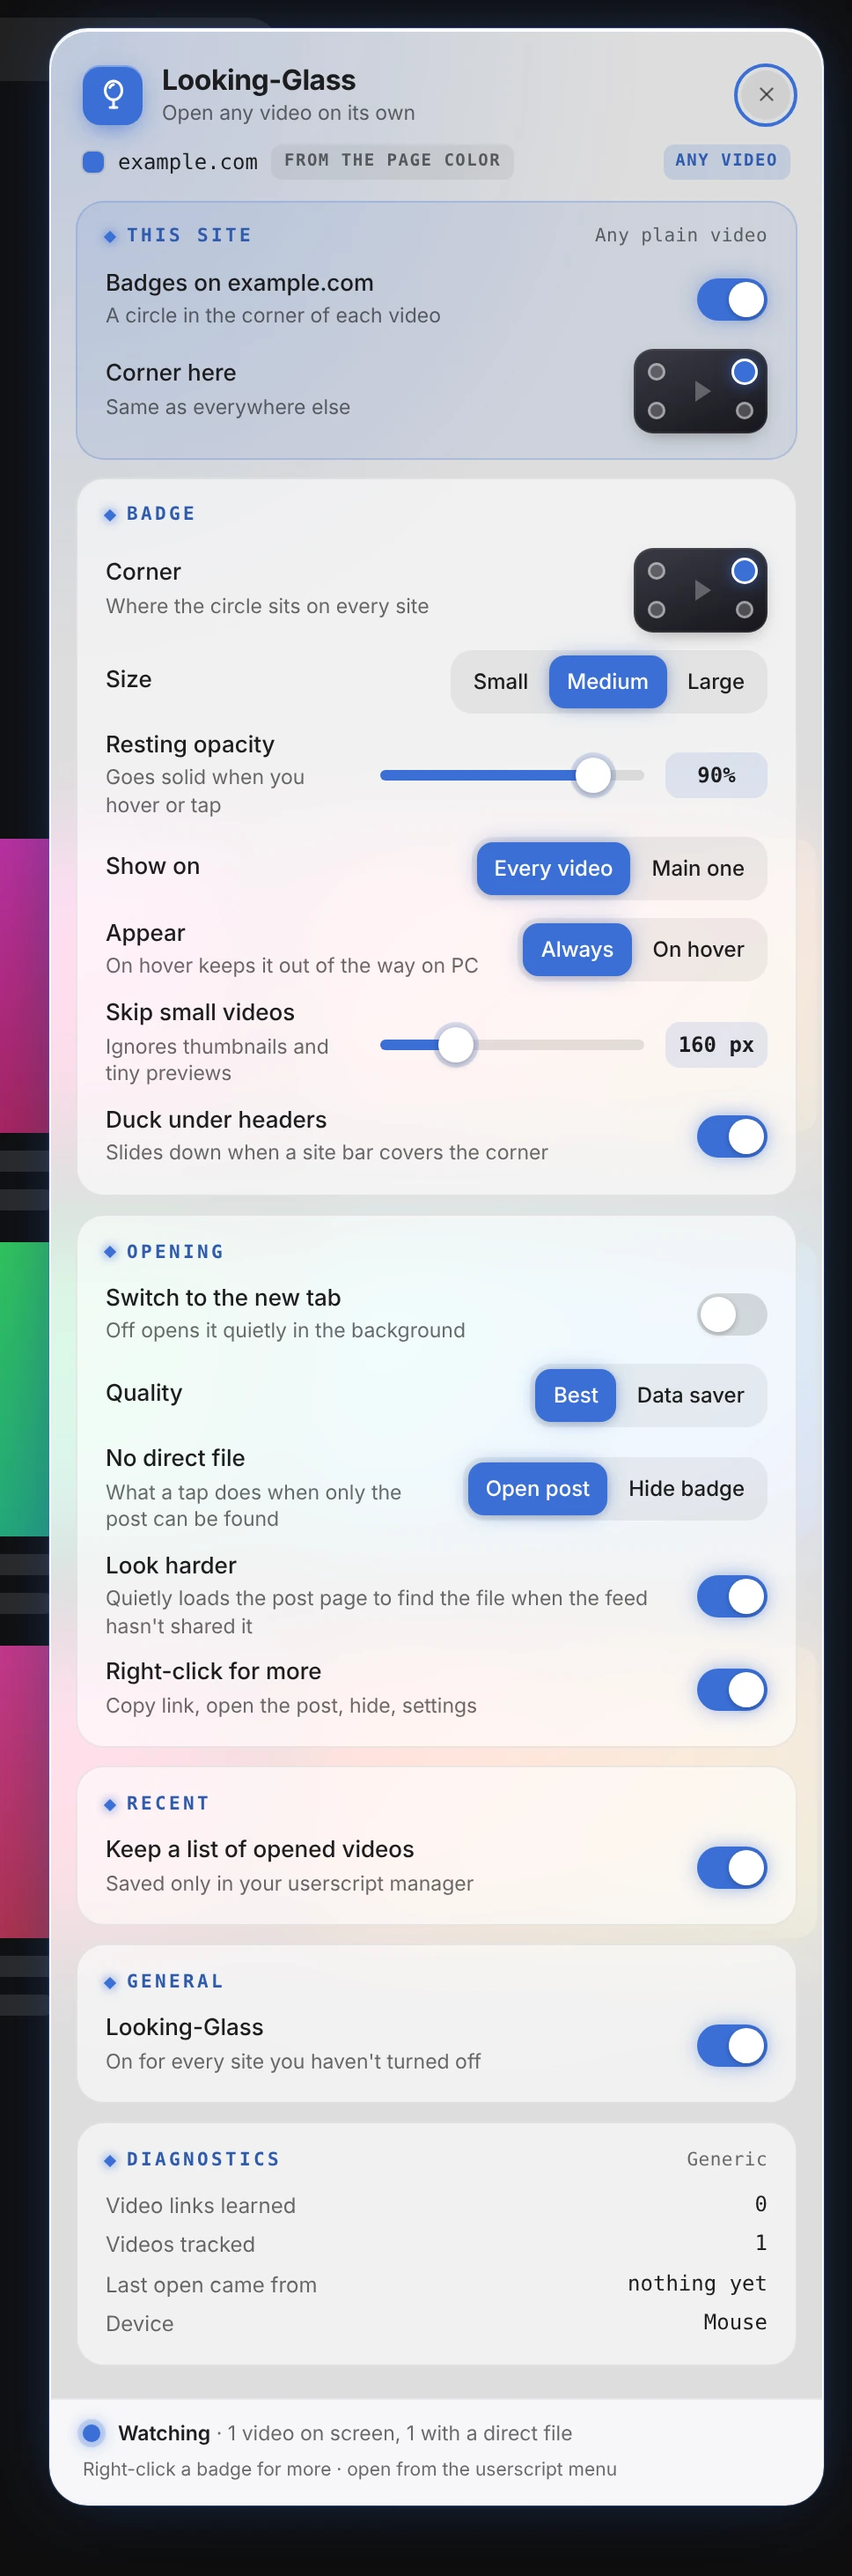
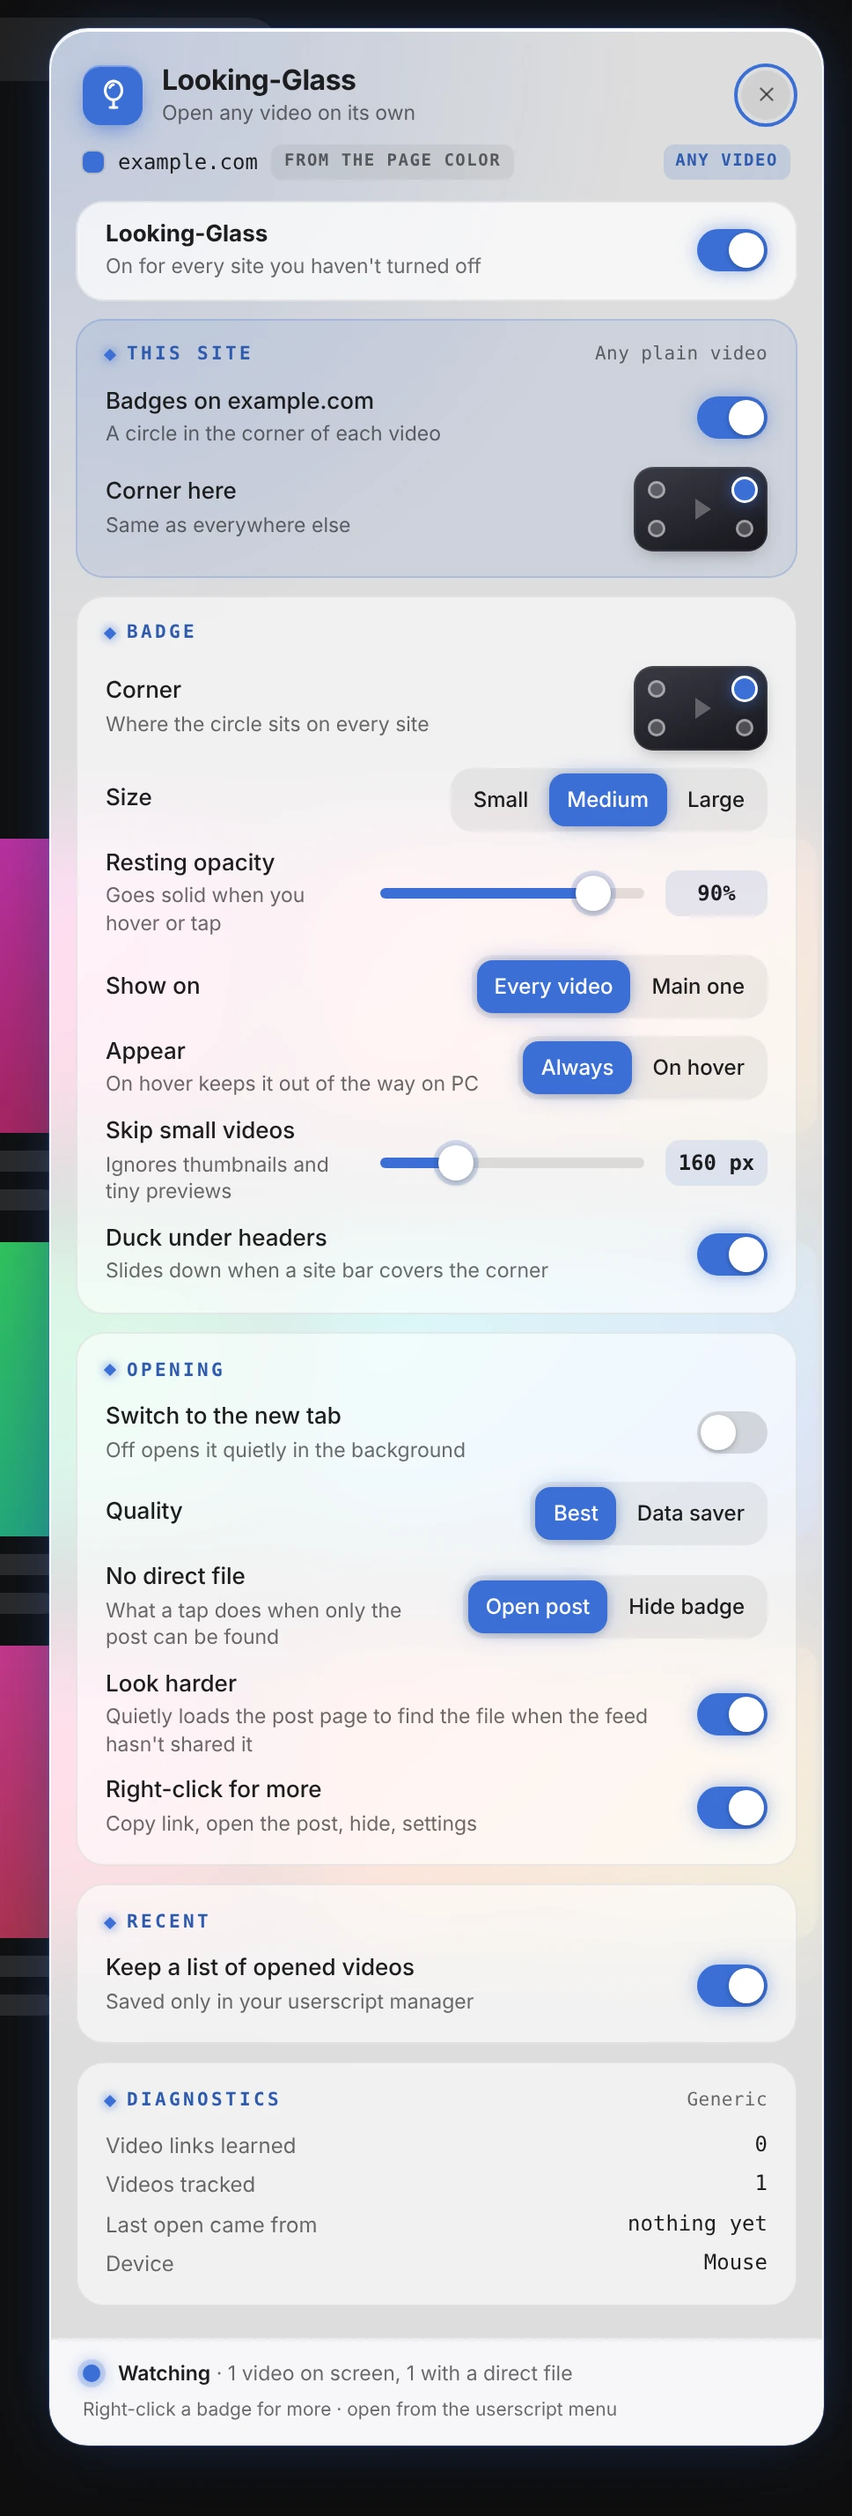
Looking-Glass 1.0.8: master switch moves to the top
The Looking-Glass on/off switch was alone in a General section at the
bottom of the panel. It is now the first card under the header, like the
master switches in Molten Tools, Molten for Reddit, Prism and Hourglass.
The General section is gone and the "This site" hint now points to the top.
Panel recaptured and pages rebuilt.

diff --git a/desktop/looking-glass/looking-glass.user.js b/desktop/looking-glass/looking-glass.user.js
@@ -1,7 +1,7 @@
 // ==UserScript==
 // @name         Looking-Glass
 // @namespace    jigglypug
-// @version      1.0.7
+// @version      1.0.8
 // @description  A small circle in the corner of every video, in the site's own color. Tap it to open the video file in its own tab. Facebook, Instagram, Reddit, X, TikTok, YouTube and any page with a plain video, on phone and PC.
 // @match        *://*/*
 // @grant        GM_getValue
@@ -1084,6 +1084,8 @@ button:disabled{cursor:not-allowed}
 .siteline{display:flex;align-items:center;gap:8px;padding:6px 18px 12px;font:12px var(--mono);color:var(--sub);min-width:0}
 .siteline b{color:var(--text);font-weight:500;overflow:hidden;text-overflow:ellipsis;white-space:nowrap}
 .sw8{width:12px;height:12px;border-radius:4px;flex:none;background:var(--bg-fill);box-shadow:0 0 0 1px rgba(0,0,0,.08)}
+.tile.master{padding:10px 16px;background:rgba(255,255,255,.75)}
+.tile.master .t{font-weight:650}
 .card{margin:0 14px 10px;padding:14px 16px;border-radius:16px;background:rgba(var(--a-rgb),.09);border:1px solid rgba(var(--a-rgb),.22)}
 .tile{margin:0 14px 10px;padding:15px 16px;border-radius:16px;background:rgba(255,255,255,.6);border:1px solid var(--line);min-width:0}
 .label{display:flex;align-items:center;gap:7px;font:600 10.5px/1 var(--mono);letter-spacing:.16em;text-transform:uppercase;color:var(--ink);margin-bottom:12px;min-height:12px}
@@ -1241,7 +1243,7 @@ button:disabled{cursor:not-allowed}
             const updSite = patch => { setSite(patch); kick(); if ('color' in patch) detectColor(); else this.render(); };
 
             const here = h('div', { class: 'card' }, this.label('This site', SITE ? SITE.name + ' support' : 'Any plain video'),
-                this.row('Badges on ' + HOST, !c.on ? 'Paused everywhere. Turn it back on in General.' : st.off ? 'Off here. Every other site still gets badges.' : 'A circle in the corner of each video', toggle(!st.off, () => updSite({ off: !st.off }), 'Badges on this site', !c.on)),
+                this.row('Badges on ' + HOST, !c.on ? 'Paused everywhere. Turn it back on at the top.' : st.off ? 'Off here. Every other site still gets badges.' : 'A circle in the corner of each video', toggle(!st.off, () => updSite({ off: !st.off }), 'Badges on this site', !c.on)),
                 this.row('Corner here', st.corner ? 'Only on ' + HOST + '. ' : 'Same as everywhere else',
                     h('div', { class: 'cpw' }, st.corner ? h('button', { class: 'link', text: 'Reset', onclick: () => updSite({ corner: null }) }) : null,
                         this.cornerPick(cornerHere(), k => updSite({ corner: k === c.corner ? null : k })))),
@@ -1263,7 +1265,10 @@ button:disabled{cursor:not-allowed}
                 this.row('Look harder', 'Quietly loads the post page to find the file when the feed hasn\'t shared it', toggle(c.deep, () => upd('deep', !c.deep), 'Look harder')),
                 this.row(TOUCH ? 'Hold for more' : 'Right-click for more', 'Copy link, open the post, hide, settings', toggle(c.hold, () => upd('hold', !c.hold), 'Badge menu')));
 
-            const out = [here, badge, opening];
+            // master switch first, like the other Glassware panels
+            const master = h('div', { class: 'tile master' },
+                this.row('Looking-Glass', c.on ? 'On for every site you haven\'t turned off' : 'Paused. No badges anywhere.', toggle(c.on, () => upd('on', !c.on), 'Looking-Glass on')));
+            const out = [master, here, badge, opening];
 
             const rec = get('recent', []);
             const recent = h('div', { class: 'tile' }, this.label('Recent', c.recent && rec.length ? h('button', { class: 'link', text: 'Clear', onclick: () => { set('recent', []); this.render(); } }) : null),
@@ -1284,8 +1289,6 @@ button:disabled{cursor:not-allowed}
             if (offSites.length) out.push(h('div', { class: 'tile' }, this.label('Turned off on'),
                 h('div', { class: 'chips' }, offSites.map(d => h('button', { class: 'chip', 'aria-label': 'Turn back on for ' + d, onclick: () => { const s = S.sites[d]; delete s.off; if (!Object.keys(s).length) delete S.sites[d]; set('sites', S.sites); this.render(); } }, d, h('span', null, icon(ICONS.close, 9, 2.6)))))));
 
-            out.push(h('div', { class: 'tile' }, this.label('General'),
-                this.row('Looking-Glass', c.on ? 'On for every site you haven\'t turned off' : 'Paused. No badges anywhere.', toggle(c.on, () => upd('on', !c.on), 'Looking-Glass on'))));
 
             out.push(h('div', { class: 'tile', style: 'margin-bottom:14px' }, this.label('Diagnostics', SITE ? SITE.name : 'Generic'),
                 h('div', { class: 'kv' },

diff --git a/docs/index.html b/docs/index.html
@@ -22,7 +22,7 @@
 <div class="acts"><a class="btn pri" href="https://raw.githubusercontent.com/JigglyPug/glassware/main/desktop/hourglass/hourglass.user.js">Install</a><a class="btn sec" href="desktop/hourglass/">Details</a></div></div></article><article class="card glass" style="--acc:#3b6fd6">
 <a class="shot" href="desktop/looking-glass/"><img src="img/looking-glass/card.webp" alt="Looking-Glass settings panel" loading="lazy"></a>
 <div class="body"><h3><a href="desktop/looking-glass/">Looking-Glass</a></h3><p>Open any video on its own.</p>
-<div class="meta"><span class="chip">Every site; phone and PC</span><span class="chip">v1.0.7</span></div>
+<div class="meta"><span class="chip">Every site; phone and PC</span><span class="chip">v1.0.8</span></div>
 <div class="acts"><a class="btn pri" href="https://raw.githubusercontent.com/JigglyPug/glassware/main/desktop/looking-glass/looking-glass.user.js">Install</a><a class="btn sec" href="desktop/looking-glass/">Details</a></div></div></article><article class="card glass" style="--acc:#ff8a3d">
 <a class="shot" href="desktop/molten-tools/"><img src="img/molten-tools/card.webp" alt="Molten Tools settings panel" loading="lazy"></a>
 <div class="body"><h3><a href="desktop/molten-tools/">Molten Tools</a></h3><p>Molten glass and quality-of-life fixes for YouTube.</p>

diff --git a/docs/desktop/looking-glass/index.html b/docs/desktop/looking-glass/index.html
@@ -11,7 +11,7 @@
 <header class="phero"><div>
 <div class="label">Desktop userscript</div>
 <h1>Looking-Glass</h1><p class="tag">Open any video on its own.</p><p class="intro">Looking-Glass puts a small circle in the corner of every video, in the site's own color. Tap it to open the video file in its own tab. It works on Facebook, Instagram, Reddit, X, TikTok, YouTube and any page with a plain video.</p>
-<div class="chips"><span class="chip">Every site; phone and PC</span><span class="chip">v1.0.7</span></div>
+<div class="chips"><span class="chip">Every site; phone and PC</span><span class="chip">v1.0.8</span></div>
 <div class="acts"><a class="btn pri big" href="https://raw.githubusercontent.com/JigglyPug/glassware/main/desktop/looking-glass/looking-glass.user.js">Install Looking-Glass</a><a class="btn sec big" href="https://github.com/JigglyPug/glassware/blob/main/desktop/looking-glass/looking-glass.user.js">View source</a></div>
 </div><figure class="glass"><img src="../../img/looking-glass/main.webp" alt="Looking-Glass panel"></figure></header>
 

diff --git a/README.md b/README.md
@@ -12,7 +12,7 @@ Built for [Tampermonkey](https://www.tampermonkey.net/). Every script updates it
 
 <table>
 <tr><td align="center" valign="top" width="50%"><a href="desktop/prism"><img src="desktop/prism/images/card.webp" width="380"></a><br><h3><a href="desktop/prism">Prism</a></h3>Every app title bar, in its site's own color.<br><sub>Every site</sub><br><br><a href="https://raw.githubusercontent.com/JigglyPug/glassware/main/desktop/prism/prism.user.js"><img src="https://img.shields.io/badge/Install-v2.0.12-3b6fd6?style=for-the-badge"></a></td><td align="center" valign="top" width="50%"><a href="desktop/hourglass"><img src="desktop/hourglass/images/card.webp" width="380"></a><br><h3><a href="desktop/hourglass">Hourglass</a></h3>Screen time and lockdown for every site.<br><sub>Every site; phone and PC</sub><br><br><a href="https://raw.githubusercontent.com/JigglyPug/glassware/main/desktop/hourglass/hourglass.user.js"><img src="https://img.shields.io/badge/Install-v1.2.5-5b5bd6?style=for-the-badge"></a></td></tr>
-<tr><td align="center" valign="top" width="50%"><a href="desktop/looking-glass"><img src="desktop/looking-glass/images/card.webp" width="380"></a><br><h3><a href="desktop/looking-glass">Looking-Glass</a></h3>Open any video on its own.<br><sub>Every site; phone and PC</sub><br><br><a href="https://raw.githubusercontent.com/JigglyPug/glassware/main/desktop/looking-glass/looking-glass.user.js"><img src="https://img.shields.io/badge/Install-v1.0.7-3b6fd6?style=for-the-badge"></a></td><td align="center" valign="top" width="50%"><a href="desktop/molten-tools"><img src="desktop/molten-tools/images/card.webp" width="380"></a><br><h3><a href="desktop/molten-tools">Molten Tools</a></h3>Molten glass and quality-of-life fixes for YouTube.<br><sub>YouTube, YouTube Music</sub><br><br><a href="https://raw.githubusercontent.com/JigglyPug/glassware/main/desktop/molten-tools/molten-tools.user.js"><img src="https://img.shields.io/badge/Install-v3.5.7-ff8a3d?style=for-the-badge"></a></td></tr>
+<tr><td align="center" valign="top" width="50%"><a href="desktop/looking-glass"><img src="desktop/looking-glass/images/card.webp" width="380"></a><br><h3><a href="desktop/looking-glass">Looking-Glass</a></h3>Open any video on its own.<br><sub>Every site; phone and PC</sub><br><br><a href="https://raw.githubusercontent.com/JigglyPug/glassware/main/desktop/looking-glass/looking-glass.user.js"><img src="https://img.shields.io/badge/Install-v1.0.8-3b6fd6?style=for-the-badge"></a></td><td align="center" valign="top" width="50%"><a href="desktop/molten-tools"><img src="desktop/molten-tools/images/card.webp" width="380"></a><br><h3><a href="desktop/molten-tools">Molten Tools</a></h3>Molten glass and quality-of-life fixes for YouTube.<br><sub>YouTube, YouTube Music</sub><br><br><a href="https://raw.githubusercontent.com/JigglyPug/glassware/main/desktop/molten-tools/molten-tools.user.js"><img src="https://img.shields.io/badge/Install-v3.5.7-ff8a3d?style=for-the-badge"></a></td></tr>
 <tr><td align="center" valign="top" width="50%"><a href="desktop/molten-for-reddit"><img src="desktop/molten-for-reddit/images/card.webp" width="380"></a><br><h3><a href="desktop/molten-for-reddit">Molten for Reddit</a></h3>Molten glass for new Reddit.<br><sub>reddit.com (new Reddit)</sub><br><br><a href="https://raw.githubusercontent.com/JigglyPug/glassware/main/desktop/molten-for-reddit/molten-for-reddit.user.js"><img src="https://img.shields.io/badge/Install-v2.2.12-ff8a3d?style=for-the-badge"></a></td><td align="center" valign="top" width="50%"><a href="desktop/kaleidoscope"><img src="desktop/kaleidoscope/images/card.webp" width="380"></a><br><h3><a href="desktop/kaleidoscope">Kaleidoscope</a></h3>Your AniList list, turned into your next favorite.<br><sub>anilist.co, claude.ai</sub><br><br><a href="https://raw.githubusercontent.com/JigglyPug/glassware/main/desktop/kaleidoscope/kaleidoscope.user.js"><img src="https://img.shields.io/badge/Install-v2.8.4-3db4f2?style=for-the-badge"></a></td></tr>
 </table>
 

diff --git a/desktop/looking-glass/README.md b/desktop/looking-glass/README.md
@@ -2,7 +2,7 @@
 
 <img src="images/banner.svg" alt="Looking-Glass: Open any video on its own." width="100%">
 
-[![Install](https://img.shields.io/badge/Install-v1.0.7-3b6fd6?style=for-the-badge)](https://raw.githubusercontent.com/JigglyPug/glassware/main/desktop/looking-glass/looking-glass.user.js) [![Website](https://img.shields.io/badge/Website-product%20page-222?style=for-the-badge)](https://jigglypug.github.io/glassware/desktop/looking-glass/)
+[![Install](https://img.shields.io/badge/Install-v1.0.8-3b6fd6?style=for-the-badge)](https://raw.githubusercontent.com/JigglyPug/glassware/main/desktop/looking-glass/looking-glass.user.js) [![Website](https://img.shields.io/badge/Website-product%20page-222?style=for-the-badge)](https://jigglypug.github.io/glassware/desktop/looking-glass/)
 
 ![Runs on](https://img.shields.io/badge/runs%20on-Every%20site%3B%20phone%20and%20PC-555?style=flat-square) ![Platform](https://img.shields.io/badge/platform-desktop-555?style=flat-square)
 
